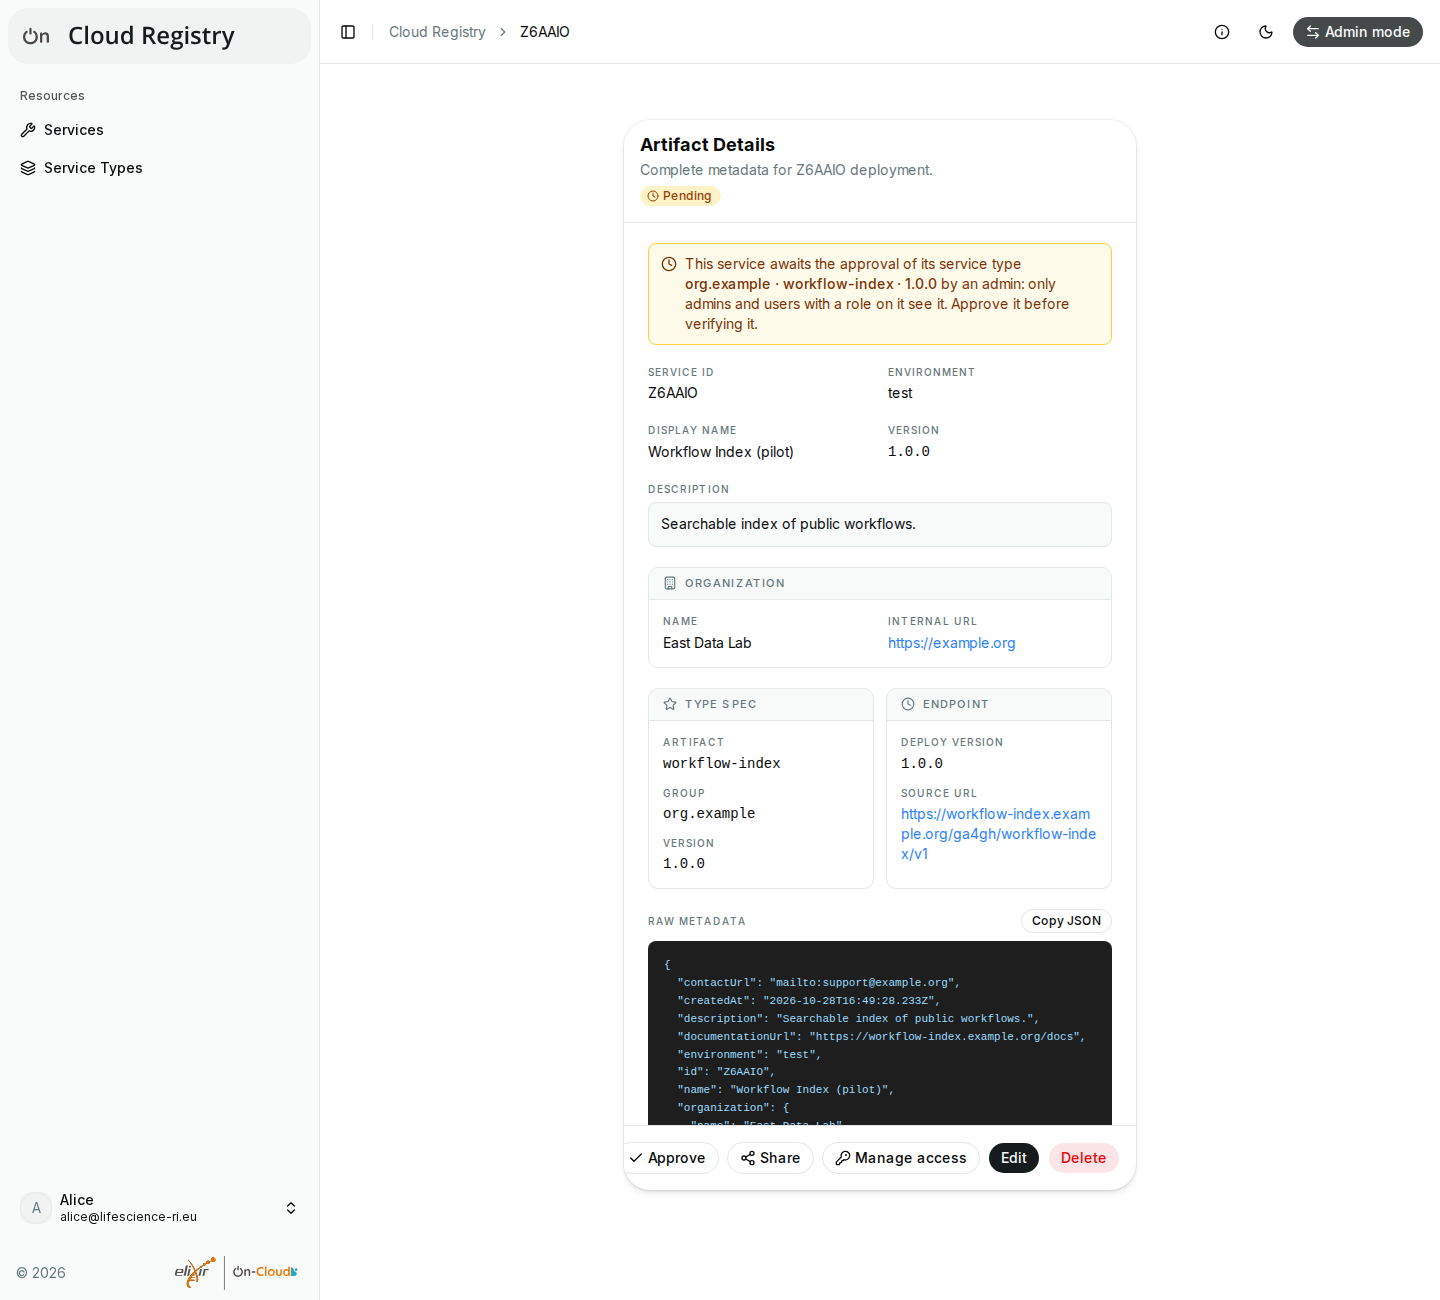
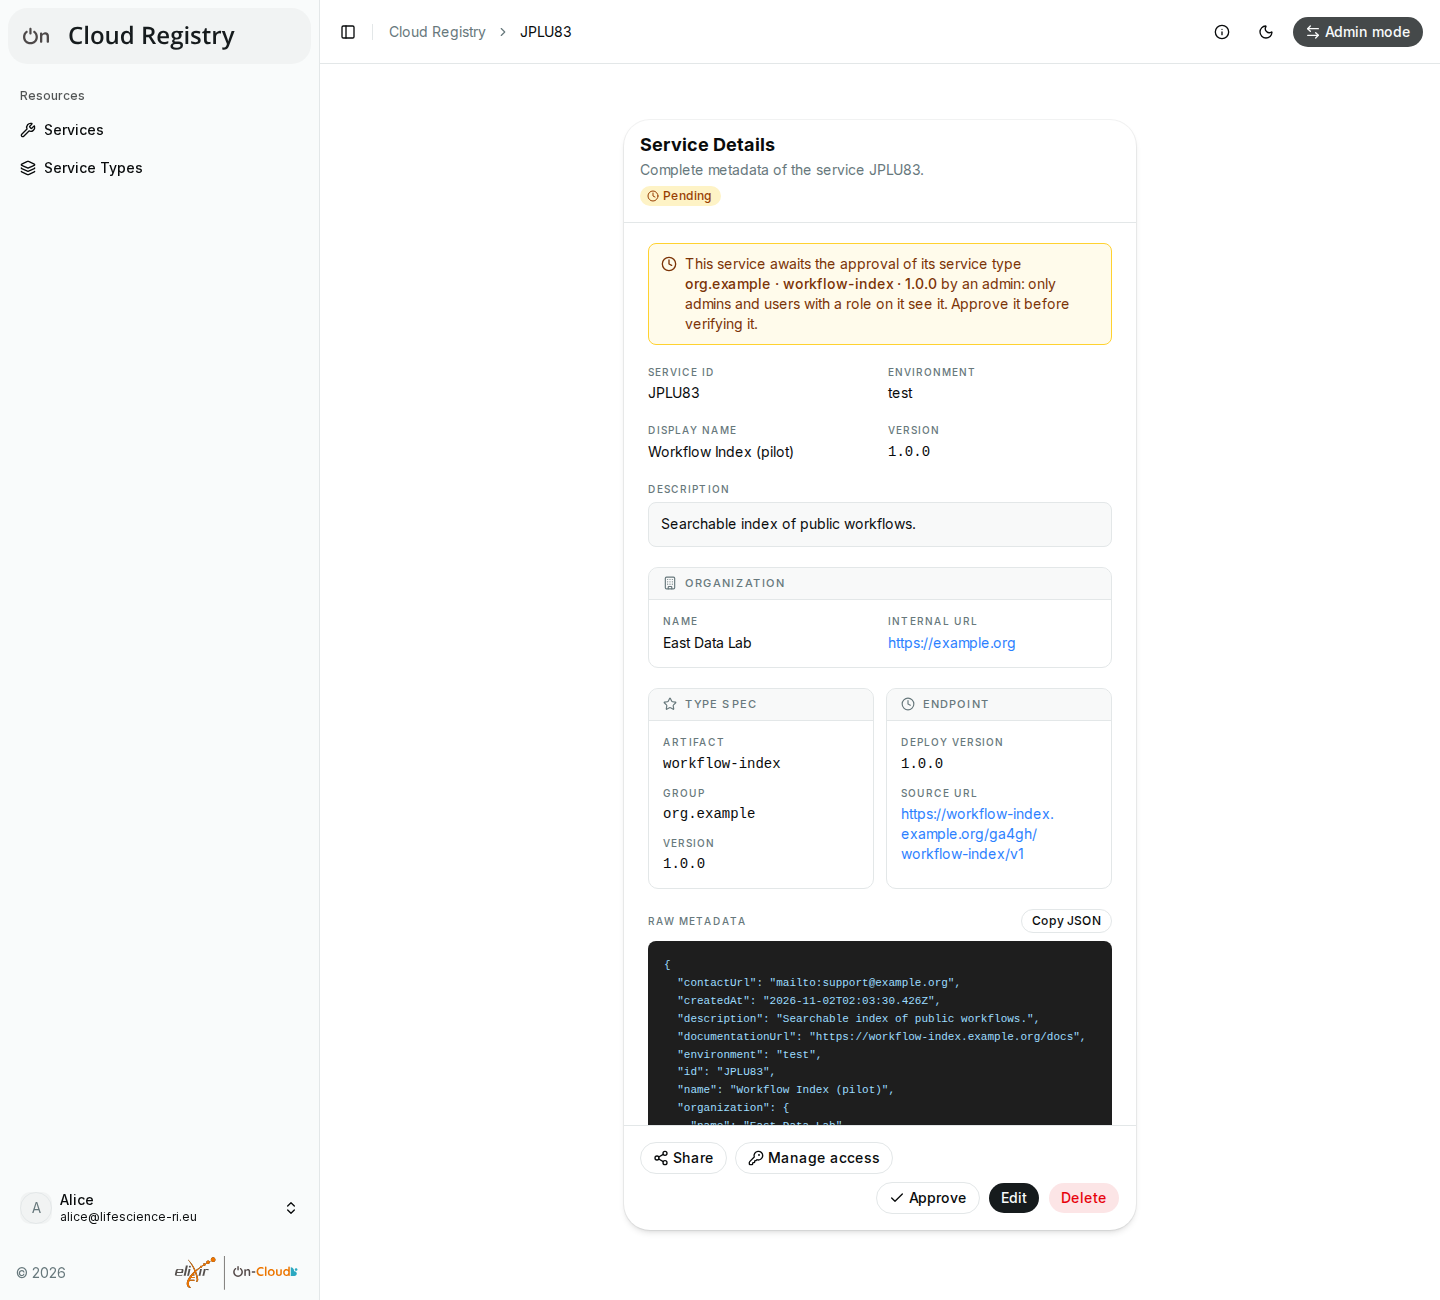
docs: describe the service details layout
Name the "Service Details" in the user guide, describe how the buttons
and long values fit, take the screenshots of the details again and add
the release note.

Claude-Session: https://claude.ai/code/session_011FSoqMUX3EU35poH13xMgG

diff --git a/docs/user-guide/browsing.md b/docs/user-guide/browsing.md
@@ -31,16 +31,19 @@ The filters combine: e.g. search for "tes" and choose the environment
 
 ### Details of a service
 
-Select a service in the list to see its details: its ID, name,
-environment and version, the description, the organization, the API
-(type), the service's URL, when it was verified, and all its metadata as
-JSON, e.g. with the contact and documentation URLs (**Copy JSON** copies
-it).
+Select a service in the list to see its details (**Service Details**): its
+ID, name, environment and version, the description, the organization, the
+API (type), the service's URL, when it was verified, and all its metadata
+as JSON, e.g. with the contact and documentation URLs (**Copy JSON** copies
+it). Long values, such as names, URLs and the JSON, wrap to the width of
+the details, also on a phone.
 
-![Details of a service](../images/service-details.png){ width="448" }
+![Details of a service](../images/service-details.png){ width="512" }
 
 The buttons below the details depend on your rights (see [Access and
-permissions](access.md)):
+permissions](access.md)). **Share** and **Manage access** are on the left,
+the actions on the service itself on the right; if they don't fit in one
+row, the actions on the right move to a row of their own:
 
 - **Share** copies a link to the service's own page, e.g. to send it to
   others. If the browser can't copy it, the link is shown below the buttons.

diff --git a/docs/releases/1.0.0-rc1.md b/docs/releases/1.0.0-rc1.md
@@ -77,6 +77,9 @@ unreleased versions, and the [user guide](../user-guide/index.md) to use it.
 - Warn of old login settings (`LS_LOGIN_URL`, `OIDC_*`) that are still set
   next to `LOGIN_PROVIDERS`, and log each provider's issuer as discovered
   (#152, #158)
+- Title the details of a service "Service Details", and fit their buttons
+  and long values (names, URLs, the JSON) to the dialog, also on phones,
+  instead of scrolling sideways (#165)
 
 ## Documentation
 
